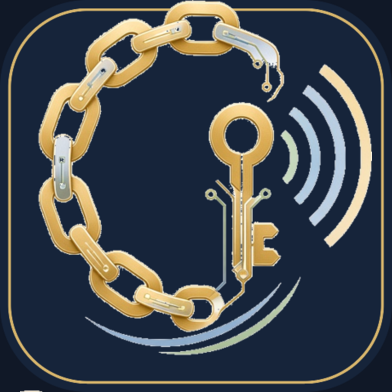
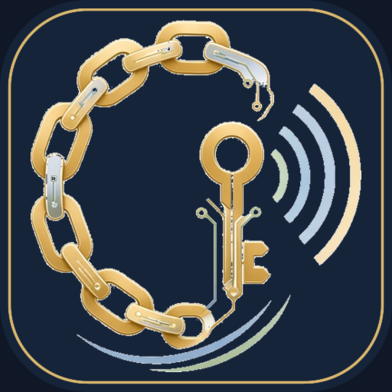
Update branding assets and web manifest configuration
Replit-Commit-Author: Agent

diff --git a/client/index.html b/client/index.html
@@ -3,9 +3,18 @@
   <head>
     <meta charset="UTF-8" />
     <meta name="viewport" content="width=device-width, initial-scale=1.0, maximum-scale=1" />
-    <title>CREEDchain - Bitcoin-like Blockchain Platform</title>
-    <meta name="description" content="CREEDchain is a Bitcoin-like blockchain platform with Proof-of-Work mining, HD wallets, and a complete blockchain explorer." />
-    <link rel="icon" type="image/png" href="/favicon.png" />
+    <title>Nexa Pay | Crypto Payments</title>
+    <meta name="description" content="Explore the Nexa Pay blockchain, manage wallets, send crypto, and mine rewards." />
+    <meta name="application-name" content="Nexa Pay" />
+    <meta name="theme-color" content="#101827" />
+    <meta name="apple-mobile-web-app-capable" content="yes" />
+    <meta name="apple-mobile-web-app-title" content="Nexa Pay" />
+    <meta property="og:title" content="Nexa Pay | Crypto Payments" />
+    <meta property="og:description" content="Manage wallets, send crypto, and explore the Nexa Pay blockchain." />
+    <link rel="icon" href="/favicon.ico" sizes="any" />
+    <link rel="icon" type="image/png" sizes="32x32" href="/brand/nexa-pay-favicon-32.png" />
+    <link rel="apple-touch-icon" href="/brand/nexa-pay-apple-touch-icon.png" />
+    <link rel="manifest" href="/manifest.webmanifest" />
     <link rel="preconnect" href="https://fonts.googleapis.com">
     <link rel="preconnect" href="https://fonts.gstatic.com" crossorigin>
     <link href="https://fonts.googleapis.com/css2?family=Architects+Daughter&family=DM+Sans:ital,opsz,wght@0,9..40,100..1000;1,9..40,100..1000&family=Fira+Code:wght@300..700&family=Geist+Mono:wght@100..900&family=Geist:wght@100..900&family=IBM+Plex+Mono:ital,wght@0,100;0,200;0,300;0,400;0,500;0,600;0,700;1,100;1,200;1,300;1,400;1,500;1,600;1,700&family=IBM+Plex+Sans:ital,wght@0,100..700;1,100..700&family=Inter:ital,opsz,wght@0,14..32,100..900;1,14..32,100..900&family=JetBrains+Mono:ital,wght@0,100..800;1,100..800&family=Libre+Baskerville:ital,wght@0,400;0,700;1,400&family=Lora:ital,wght@0,400..700;1,400..700&family=Merriweather:ital,opsz,wght@0,18..144,300..900;1,18..144,300..900&family=Montserrat:ital,wght@0,100..900;1,100..900&family=Open+Sans:ital,wght@0,300..800;1,300..800&family=Outfit:wght@100..900&family=Oxanium:wght@200..800&family=Playfair+Display:ital,wght@0,400..900;1,400..900&family=Plus+Jakarta+Sans:ital,wght@0,200..800;1,200..800&family=Poppins:ital,wght@0,100;0,200;0,300;0,400;0,500;0,600;0,700;0,800;0,900;1,100;1,200;1,300;1,400;1,500;1,600;1,700;1,800;1,900&family=Roboto+Mono:ital,wght@0,100..700;1,100..700&family=Roboto:ital,wght@0,100..900;1,100..900&family=Source+Code+Pro:ital,wght@0,200..900;1,200..900&family=Source+Serif+4:ital,opsz,wght@0,8..60,200..900;1,8..60,200..900&family=Space+Grotesk:wght@300..700&family=Space+Mono:ital,wght@0,400;0,700;1,400;1,700&display=swap" rel="stylesheet">

diff --git a/client/src/components/app-sidebar.tsx b/client/src/components/app-sidebar.tsx
@@ -20,7 +20,6 @@ import {
   SidebarFooter,
 } from "@/components/ui/sidebar";
 import { Badge } from "@/components/ui/badge";
-import logoImage from "@assets/IMG_0276_1764960201915.webp";
 
 const menuItems = [
   {
@@ -59,15 +58,15 @@ export function AppSidebar() {
         <Link href="/" className="flex items-center gap-3">
           <div className="relative">
             <img
-              src={logoImage}
-              alt="CREEDchain Logo"
-              className="h-10 w-10 rounded-full"
+              src="/brand/nexa-pay-icon-192.png"
+              alt="Nexa Pay"
+              className="h-10 w-10 rounded-xl"
             />
             <div className="absolute -bottom-0.5 -right-0.5 h-3 w-3 rounded-full bg-status-online border-2 border-sidebar" />
           </div>
           <div className="flex flex-col">
-            <span className="font-semibold text-lg tracking-tight">CREEDchain</span>
-            <span className="text-xs text-muted-foreground">Bitcoin-like Blockchain</span>
+            <span className="font-semibold text-lg tracking-tight">Nexa Pay</span>
+            <span className="text-xs text-muted-foreground">Crypto payments</span>
           </div>
         </Link>
       </SidebarHeader>

diff --git a/replit.md b/replit.md
@@ -1,8 +1,8 @@
-# CREEDchain - Bitcoin-like Blockchain Platform
+# Nexa Pay - Crypto Payments Platform
 
 ## Overview
 
-CREEDchain is a Bitcoin-like blockchain platform featuring Proof-of-Work mining, UTXO transaction model, HD wallet system, and a comprehensive blockchain explorer. The application provides real-time blockchain network monitoring, wallet management, transaction tracking, and mining capabilities through a modern web interface.
+Nexa Pay is a blockchain-based crypto payments platform featuring Proof-of-Work mining, a UTXO transaction model, an HD wallet system, and a blockchain explorer. The application provides real-time network monitoring, wallet management, transaction tracking, and mining capabilities through a modern web interface.
 
 The platform implements core Bitcoin protocol concepts including:
 - Proof-of-Work consensus mechanism with adjustable difficulty

diff --git a/.agents/memory/nexa-pay-branding.md b/.agents/memory/nexa-pay-branding.md
@@ -1,0 +1,10 @@
+---
+name: Nexa Pay branding
+description: App-facing product branding and existing CREED coin terminology.
+---
+
+The user selected Nexa Pay as the product and app brand. A branding-only update should retain CREED as the existing chain token and ticker unless the user explicitly requests a protocol or currency migration.
+
+**Why:** changing the product name does not change the existing blockchain data or coin identity.
+
+**How to apply:** use Nexa Pay for the app name, logo, and browser/install metadata; preserve CREED in balance, reward, and transaction labels unless asked otherwise.

diff --git a/.agents/memory/MEMORY.md b/.agents/memory/MEMORY.md
@@ -1,0 +1,1 @@
+- [Nexa Pay branding](nexa-pay-branding.md) — Keep the app brand separate from the existing CREED token and chain data.
